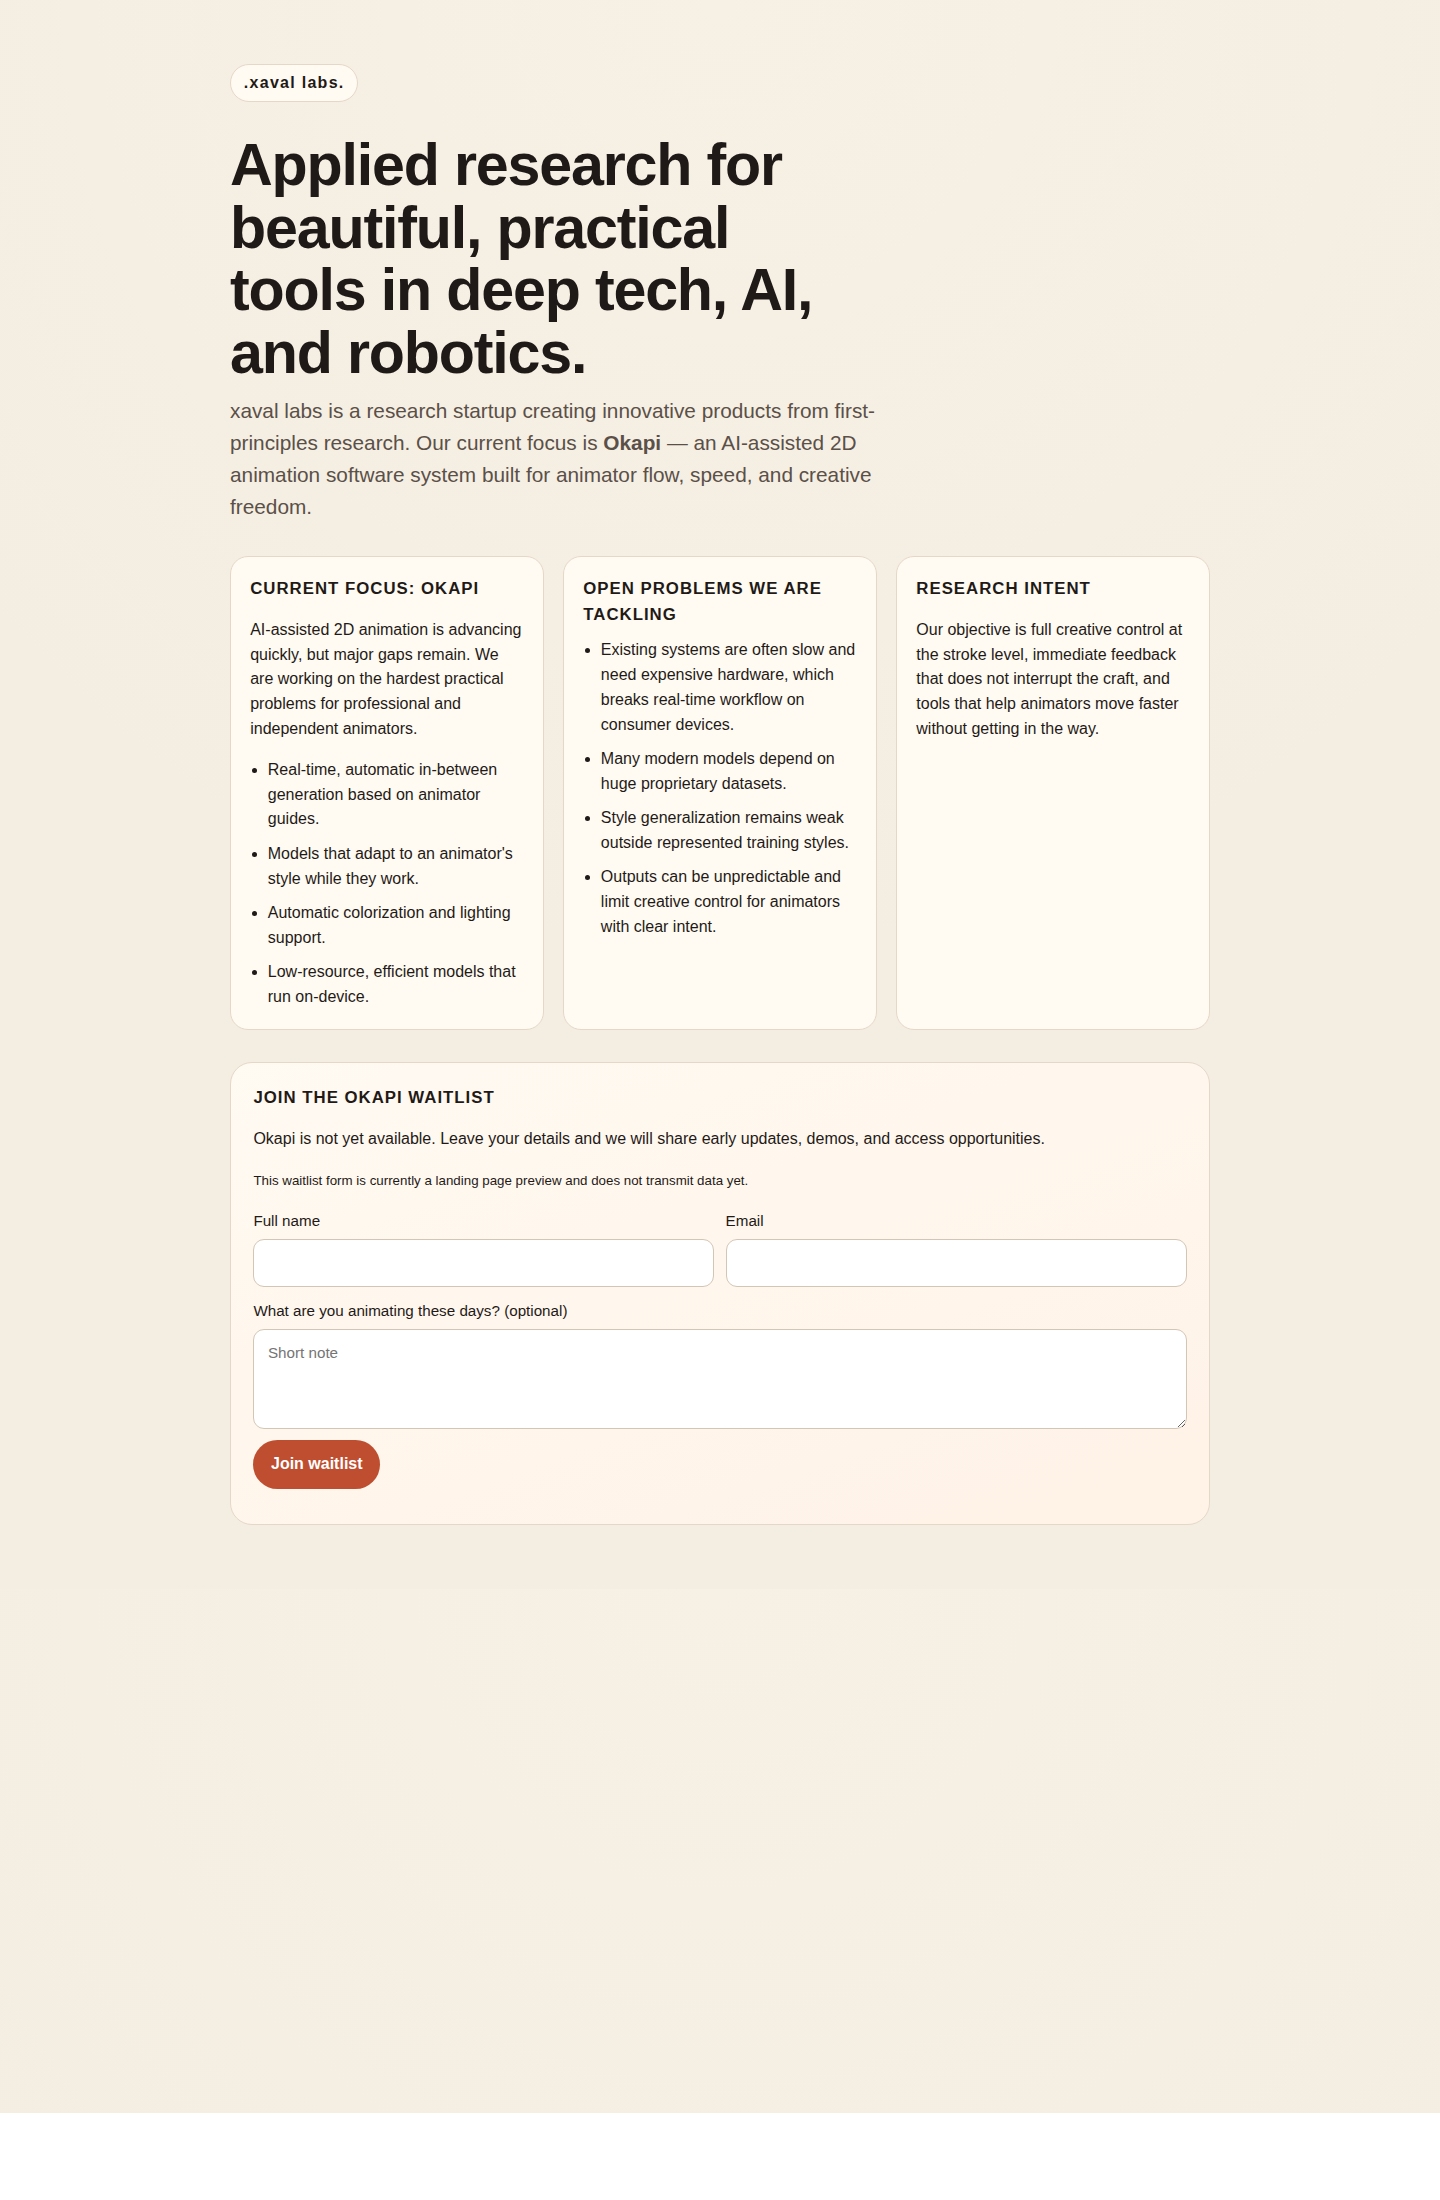
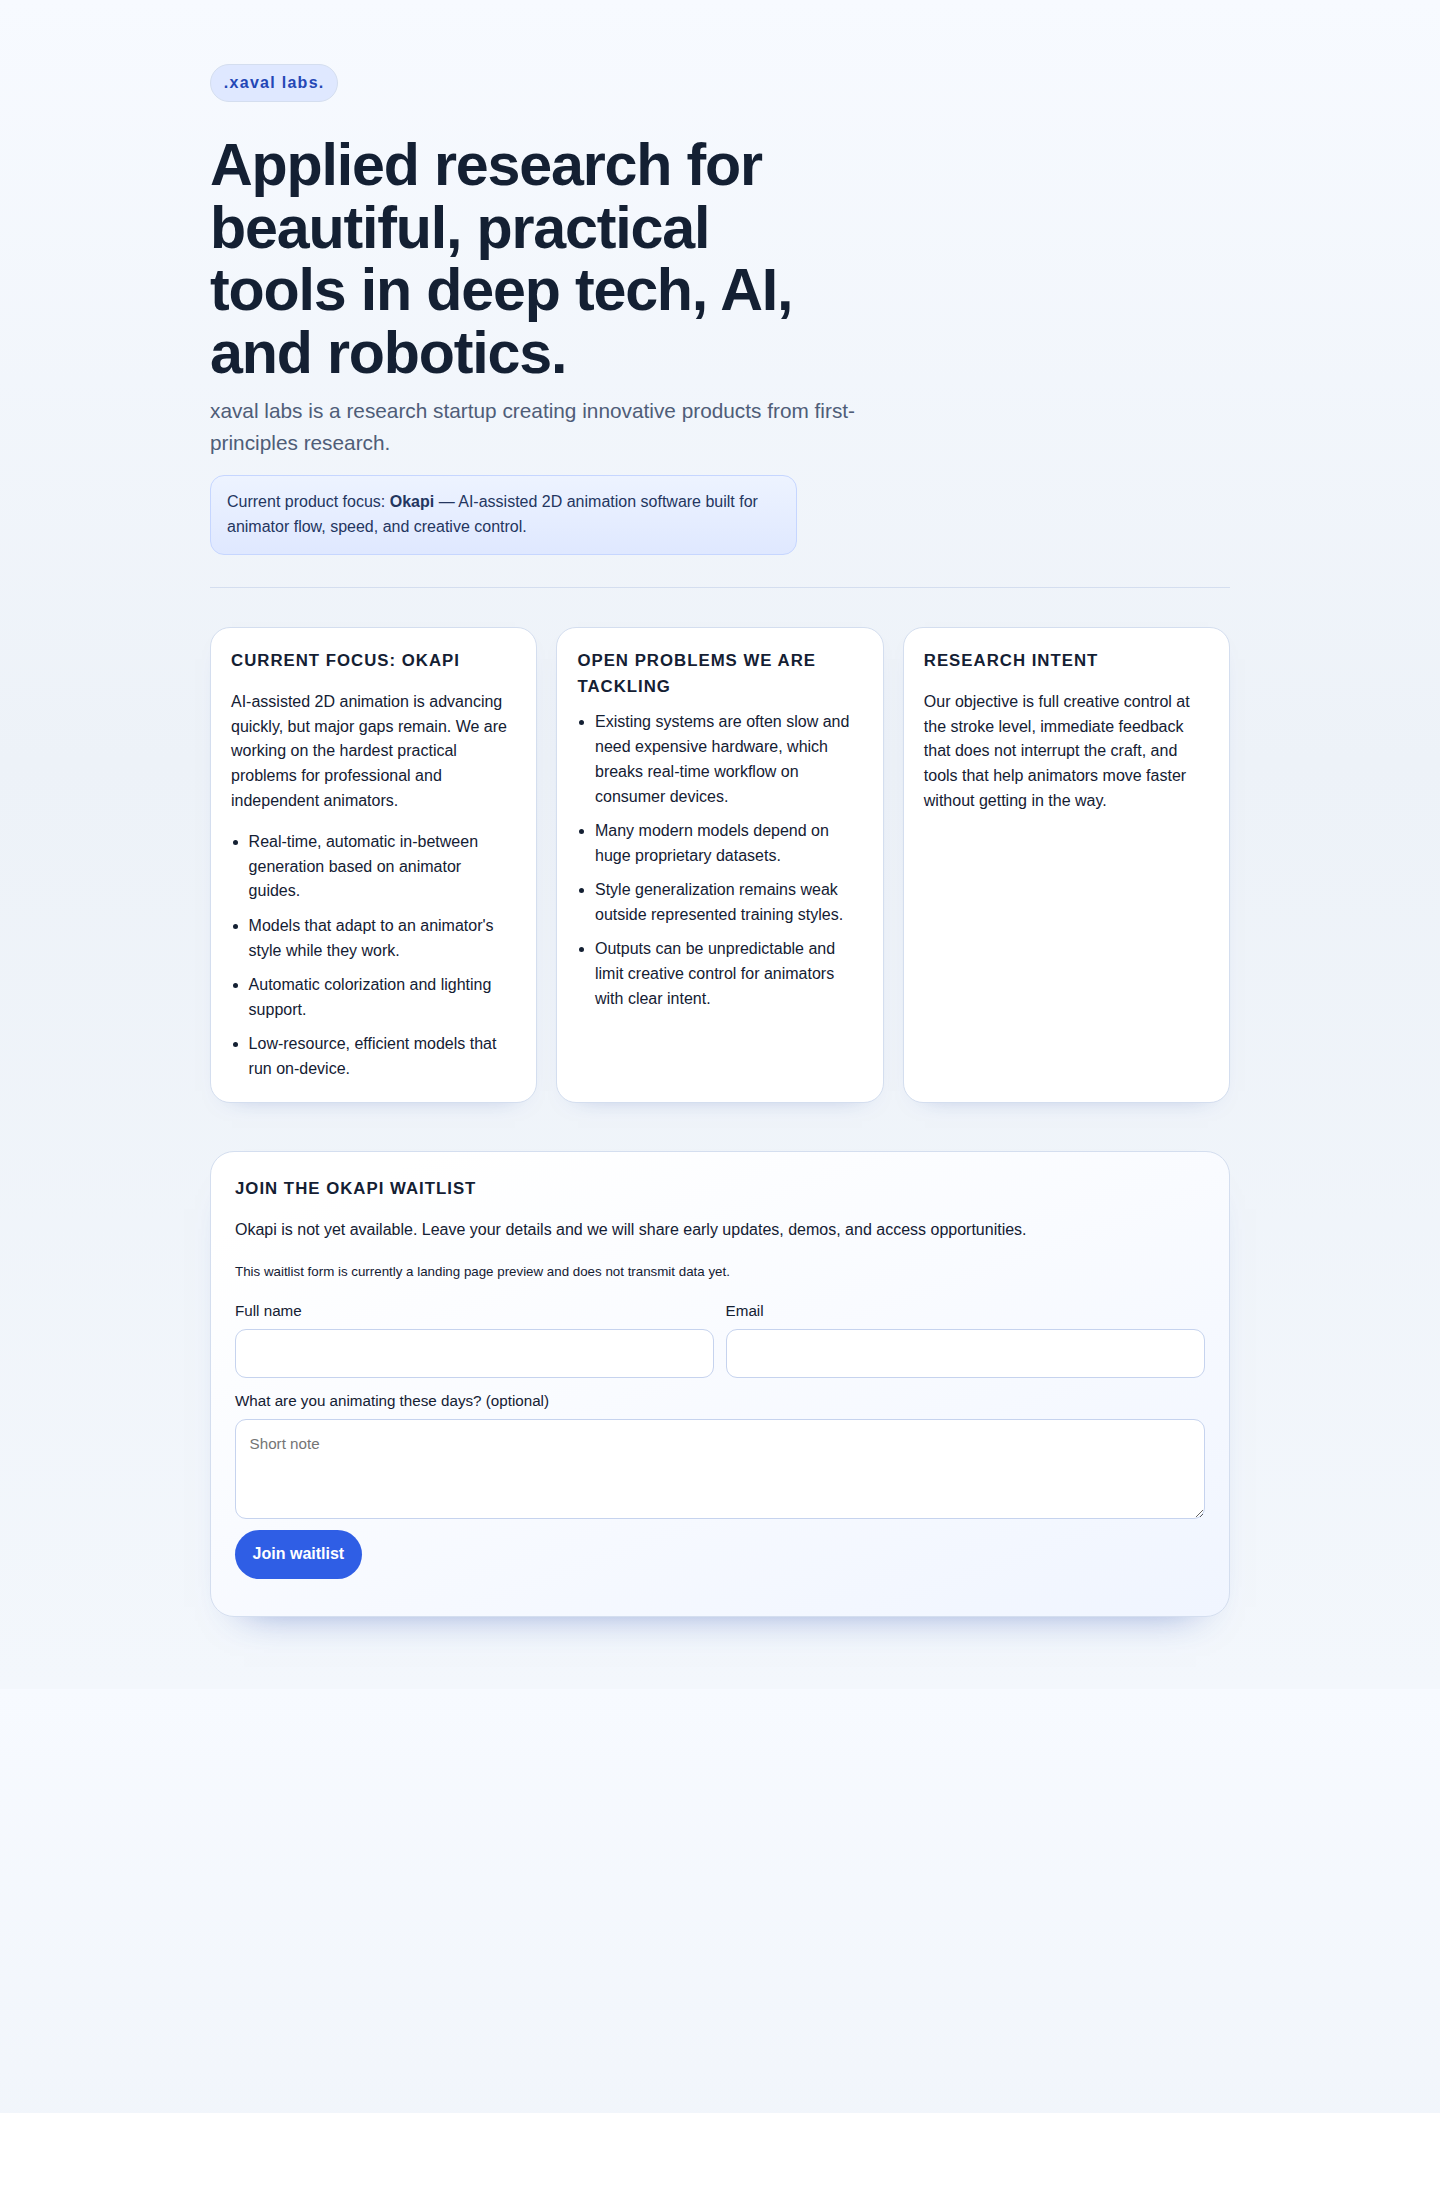
feat: refresh landing page styling and separate Okapi focus block
Agent-Logs-Url: https://github.com/habbes/xavallabs/sessions/99417f5b-73f1-42b8-95a8-ef0aecc4e280

diff --git a/index.html b/index.html
@@ -7,13 +7,13 @@
   <meta name="description" content="xaval labs is a research lab startup building applied deep tech, AI, and robotics products. Current focus: Okapi, AI-assisted 2D animation software.">
   <style>
     :root {
-      --bg: #f4eee2;
-      --paper: #fffaf2;
-      --ink: #1f1a17;
-      --muted: #5b5048;
-      --accent: #be4e2f;
-      --accent-soft: #f2c8b5;
-      --line: #e6d8c7;
+      --bg: #edf2f8;
+      --paper: #ffffff;
+      --ink: #142033;
+      --muted: #4f5d78;
+      --accent: #2f5ee5;
+      --accent-soft: #dfe8ff;
+      --line: #d4deef;
     }
 
     * { box-sizing: border-box; }
@@ -21,15 +21,20 @@
     body {
       margin: 0;
       font-family: "Inter", "Avenir Next", "Segoe UI", Roboto, sans-serif;
-      background: radial-gradient(circle at top, #f7f0e5, var(--bg) 55%);
+      background: linear-gradient(180deg, #f7faff 0%, var(--bg) 45%, #f3f7fc 100%);
       color: var(--ink);
       line-height: 1.55;
     }
 
     .page {
-      width: min(980px, 92vw);
+      width: min(1020px, 92vw);
       margin: 0 auto;
-      padding: 3rem 0 4rem;
+      padding: 3rem 0 4.5rem;
+    }
+
+    .hero {
+      padding: 0 0 2rem;
+      border-bottom: 1px solid var(--line);
     }
 
     .logo {
@@ -40,7 +45,8 @@
       border: 1px solid var(--line);
       border-radius: 999px;
       padding: 0.35rem 0.8rem;
-      background: var(--paper);
+      background: var(--accent-soft);
+      color: #2447b6;
     }
 
     h1 {
@@ -58,18 +64,29 @@
       color: var(--muted);
     }
 
+    .focus {
+      margin: 1rem 0 0;
+      max-width: 66ch;
+      background: linear-gradient(180deg, #edf3ff 0%, var(--accent-soft) 100%);
+      border: 1px solid #c6d6ff;
+      border-radius: 14px;
+      padding: 0.9rem 1rem;
+      color: #24365f;
+    }
+
     .grid {
       display: grid;
       gap: 1.2rem;
-      margin-top: 2rem;
+      margin-top: 2.4rem;
       grid-template-columns: repeat(auto-fit, minmax(270px, 1fr));
     }
 
     .card {
       background: var(--paper);
       border: 1px solid var(--line);
-      border-radius: 18px;
-      padding: 1.2rem;
+      border-radius: 20px;
+      padding: 1.25rem;
+      box-shadow: 0 10px 25px -22px rgba(32, 66, 160, 0.55);
     }
 
     h2 {
@@ -83,11 +100,12 @@
     li + li { margin-top: 0.6rem; }
 
     .okapi {
-      margin-top: 2rem;
-      background: linear-gradient(160deg, var(--paper), #fff2e7);
+      margin-top: 3rem;
+      background: linear-gradient(160deg, #ffffff 10%, #f0f5ff 100%);
       border: 1px solid var(--line);
-      border-radius: 22px;
-      padding: 1.4rem;
+      border-radius: 24px;
+      padding: 1.5rem;
+      box-shadow: 0 24px 40px -34px rgba(39, 76, 177, 0.65);
     }
 
     form {
@@ -107,7 +125,7 @@
 
     input, textarea {
       width: 100%;
-      border: 1px solid #d4c6b5;
+      border: 1px solid #c6d3ee;
       border-radius: 11px;
       background: #fff;
       color: var(--ink);
@@ -133,7 +151,7 @@
       cursor: pointer;
     }
 
-    button:hover { background: #a84227; }
+    button:hover { background: #2148bc; }
 
     #waitlist-status {
       margin: 0.1rem 0 0;
@@ -150,11 +168,15 @@
 <body>
   <main class="page">
     <p class="logo">.xaval labs.</p>
-    <h1>Applied research for beautiful, practical tools in deep tech, AI, and robotics.</h1>
-    <p class="lead">
-      xaval labs is a research startup creating innovative products from first-principles research.
-      Our current focus is <strong>Okapi</strong> — an AI-assisted 2D animation software system built for animator flow, speed, and creative freedom.
-    </p>
+    <section class="hero" aria-label="company overview">
+      <h1>Applied research for beautiful, practical tools in deep tech, AI, and robotics.</h1>
+      <p class="lead">
+        xaval labs is a research startup creating innovative products from first-principles research.
+      </p>
+      <p class="focus">
+        Current product focus: <strong>Okapi</strong> — AI-assisted 2D animation software built for animator flow, speed, and creative control.
+      </p>
+    </section>
 
     <section class="grid" aria-label="research overview">
       <article class="card">
